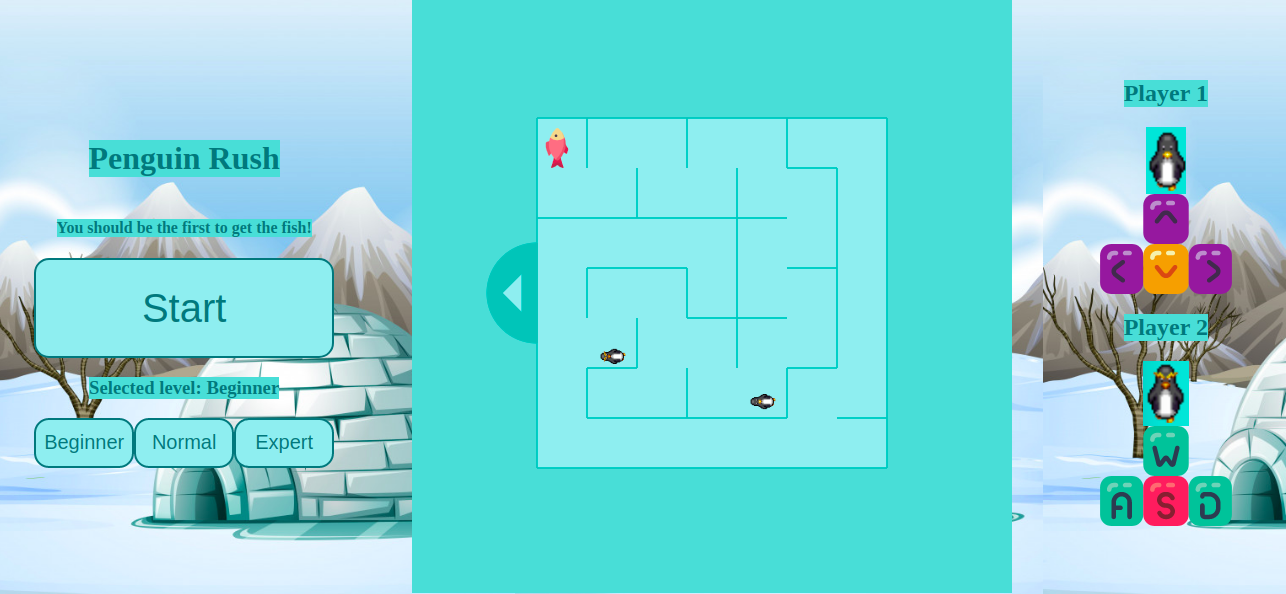
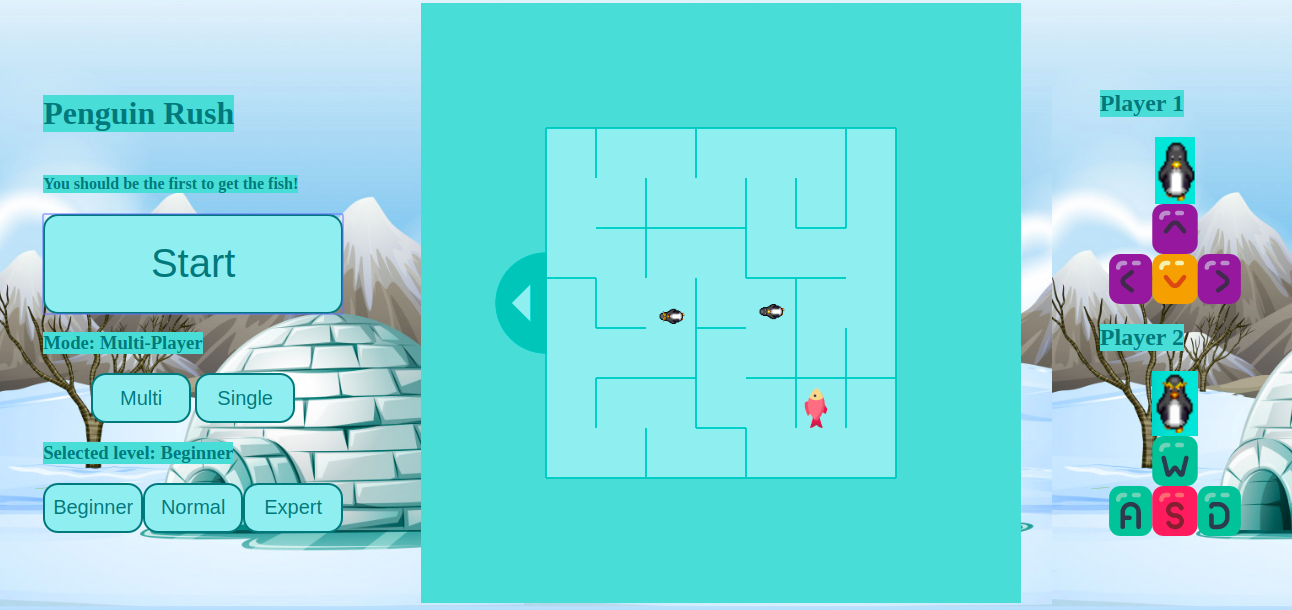
done. Single player mode and expert audio added

diff --git a/script.js b/script.js
@@ -4,14 +4,14 @@ let lab
 let pez
 let nivel=1
 let audio=new Audio()
-audio.src= "./Audio/rainbows.mp3"
-audio.play()
+audio.src= "./Audio/Misión imposible fail   canción flauta art. (320  kbps).mp3"
 let canvas=document.querySelector("canvas")
 let ctx=canvas.getContext("2d")
 let win=new Image()
  win.src="./Imagenes/winner.svg"
 ctx.translate(300,300)
 ctx.save()
+let mode=2
 let interval
 let frames
 let movimientos=[[],["r"],["u"],["l"],["d"],["l","r"],["u","d"],["r","d"],["r","u"],["l","u"],["l","d"],["l","r","u"],["l","u","d"],["r","u","d"],["l","r","d"]]
@@ -26,6 +26,7 @@ class Laberinto{
             y:0
         }
         this.angulo=0
+        this.solucion=""
         this.tablero=[]
         }
     getLab(){
@@ -40,6 +41,7 @@ class Laberinto{
                      x:6,
                      y:6
                  },
+                 solucion:"lluurrulurululdldrdldluldldr",
                  tablero:[[7,8,7,2,7,13,8],[5,10,9,7,9,3,3],[14,6,8,10,8,1,1],[3,7,11,7,9,10,11],[7,9,10,9,7,6,11],[14,8,7,8,5,1,5],[3,10,9,10,12,9,3]]
             },
             //Opcion 2
@@ -52,6 +54,7 @@ class Laberinto{
                      x:2,
                      y:0
                  },
+                 solucion:"lldrdrdlldddrurdrurdrurulurululdldrdl",
                  tablero:[[7,8,4,13,6,6,8],[5,10,8,14,8,7,9],[3,1,10,9,3,10,8],[7,11,7,8,1,7,9],[5,14,9,10,9,10,8],[5,10,8,7,8,7,9],[10,2,10,9,10,12,2]]
             },
             //Opcion 3
@@ -64,6 +67,7 @@ class Laberinto{
                      x:3,
                      y:6
                  },
+                 solucion:"llluuuurruurdrdldrdldrdrurulurulurul",
                  tablero:[[7,8,7,6,6,6,8],[5,3,5,7,8,7,11],[14,6,9,3,10,9,5],[10,8,7,8,7,8,3],[4,12,9,10,9,10,8],[1,7,8,7,8,7,9],[10,9,10,9,10,12,12]]
             },
             //Opcion 4
@@ -76,15 +80,18 @@ class Laberinto{
                      x:6,
                      y:5
                  },
+                 solucion:"dllllluluuuuurrdrdldldrdrurdrurulurulur",
                  tablero:[[7,6,6,6,6,13,2],[5,4,8,7,8,10,8],[14,8,14,9,10,8,5],[5,10,9,1,7,9,5],[10,6,6,9,10,8,5],[7,8,7,8,7,9,5],[3,10,9,10,9,4,9]]
             }
      ]
-     let index=Math.floor(Math.random()*5)
+     let index=Math.floor(Math.random()*480)%4
+     index=0
      this.premio.x=opciones[index].premio.x
      this.premio.y=opciones[index].premio.y
      this.inicio.x=opciones[index].inicio.x
      this.inicio.y=opciones[index].inicio.y
      this.tablero=[...opciones[index].tablero]
+     this.solucion=opciones[index].solucion
     }
     rotate(){
         let rota=(Math.floor((Math.random()*3)+1)*90)
@@ -293,8 +300,6 @@ function winner(){
     if (w1===true) {
         if (nivel===3){
         audio.pause()
-        audio.src="./Audio/rainbows.mp3"
-        audio.play()
         }
         if (w2===true) {
             return "draw"
@@ -307,8 +312,6 @@ function winner(){
         if (w2===true) {
             if (nivel===3){
                 audio.pause()
-                audio.src="./Audio/rainbows.mp3"
-                audio.play()
                 }
             return "player2"
         }
@@ -321,6 +324,9 @@ function winner(){
 
 function update(){
 frames++
+if (mode===1){
+    movePC()    
+}
 lab.draw()
 pez.draw()
 p1.draw()
@@ -366,6 +372,7 @@ switch (winner()) {
         break;
     }
 }
+
 function modifAngulo(){
     switch (lab.angulo) {
         case 0:
@@ -384,9 +391,7 @@ function modifAngulo(){
 }
 function start(){
     if (interval) return
-    if (nivel===3) audio.src="./Audio/Misión imposible fail   canción flauta art. (320  kbps).mp3"
-    audio.play()
-    audio.loop=true
+    if (nivel===3) audio.play()
     ctx.restore()
     frames=0
     lab=new Laberinto()
@@ -399,9 +404,32 @@ function start(){
     p2.draw()
     pez.draw()
     interval=setInterval(update,1000/50)
+    
 }
 
-
+function movePC(){
+    if (frames%(50*(4-nivel))===0) {
+        let mov=frames/(50*(4-nivel))
+        switch (lab.solucion[mov-1]) {
+            case 'l':
+                p2.direccion='l'
+                p2.moveLeft()
+                break;
+            case 'u':
+                p2.direccion="u"
+                p2.moveUp()
+                break;
+            case 'r':
+                    p2.direccion="r"
+                    p2.moveRight()
+                break;
+            case 'd':
+                    p2.direccion="d"
+                    p2.moveDown()
+                    break;
+                }
+    }
+}
   document.addEventListener('keydown', ({ keyCode }) => {
     switch (keyCode) {
         case 37:
@@ -476,7 +504,17 @@ function start(){
         if (interval) return
         nivel=3;
         document.getElementById("nivel").innerText="Expert"
-      }
+    }
+    document.getElementById("single").onclick = function() {
+      if (interval) return
+      mode=1;
+      document.getElementById("modo").innerText="Single Player"
+    }
+    document.getElementById("multiplayer").onclick = function() {
+      if (interval) return
+      mode=2;
+      document.getElementById("modo").innerText="Multi-Player"
+    }
     
 
     let ini=new Image()

diff --git a/index.html b/index.html
@@ -12,6 +12,11 @@
         <h1>Penguin Rush</h1>
         <h4>You should be the first to get the fish!</h4>
     <button id='start-button'>Start</button>
+    <h3>Mode: <span id="modo">Multi-Player</span></h3>
+    <div id="mode">
+        <button id='multiplayer'>Multi</button>
+        <button id='single'>Single</button>
+    </div>
     <h3>Selected level: <span id="nivel">Beginner</span></h3>
     <div id="niveles">
         <button id='beginner'>Beginner</button>

diff --git a/style.css b/style.css
@@ -43,7 +43,8 @@ button{
 h1,h2,h3,h4{
     background-color: #68D8D6;
     width: fit-content;
-
+    margin-left:auto;
+    margin-right: auto;
 }
 
 .comando {

diff --git a/README.md b/README.md
@@ -24,11 +24,16 @@ Goal: ![Fish](https://github.com/AleOchoa/Penguin-Rush/blob/master/Imagenes/prem
 | Left         | ArrowLeft     |A              |
 | Right        | ArrowRight    |D              |
 
+At the beginning of the game you can choose the game mode and the 
+difficulty level. If you change of mind of the settings you have to finish the game before modifying them.
+
+You can choose between playing with the computer or playing with a friend.
+
 You can choose one of the three different levels: 
 
-1) Begginers: 8 seconds between rotations.
-2) Normal: 5 seconds between rotations.
-3) Expert: 2 seconds between rotations.
+1) Begginers: 8 seconds between rotations. In single player mode the computer moves one space each 3 seconds.
+2) Normal: 5 seconds between rotations. In single player mode the computer moves one space each 2 seconds.
+3) Expert: 2 seconds between rotations and an annoying background music. In single player mode the computer moves one space each 1 seconds.
 
 The level has to be selected before starting the game, once it starts there is no chance to change it.
 
